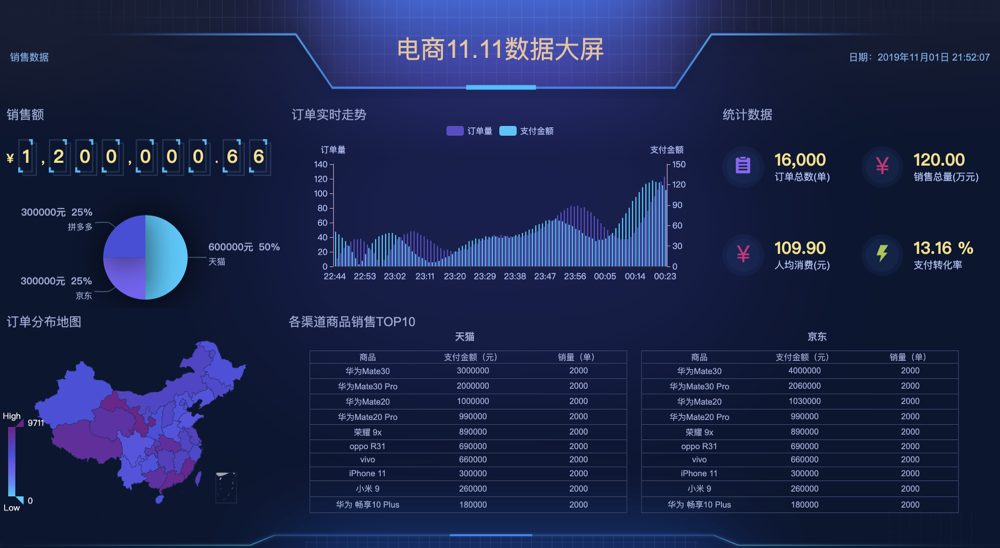
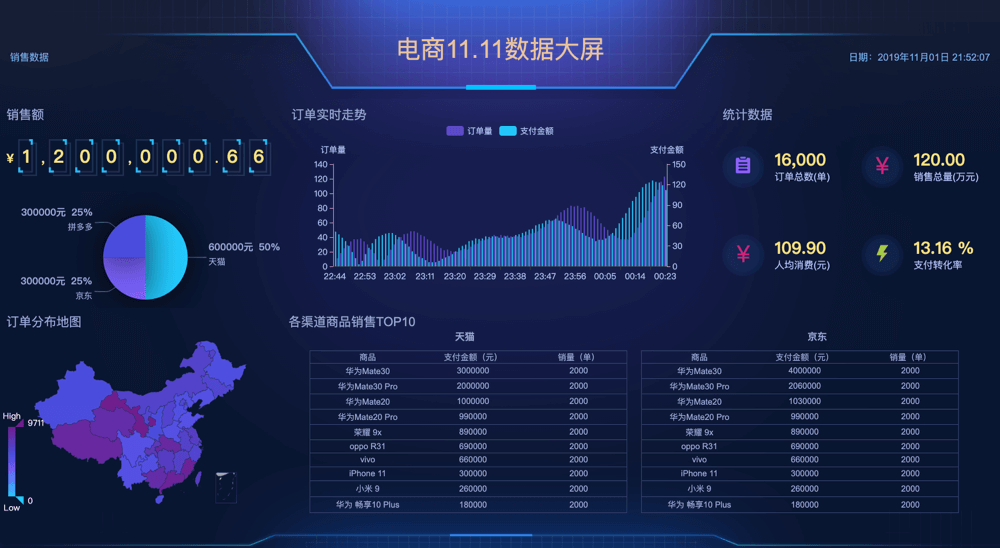
fix(png): 优化图片 & 增加参考地址

diff --git a/readme.md b/readme.md
@@ -9,3 +9,5 @@
 demo 效果：
 
 ![Image text](https://raw.githubusercontent.com/dongchunhai/data-view/master/img/demo.png)
+
+参考： [https://github.com/yyhsong/iDataV](https://github.com/yyhsong/iDataV)
